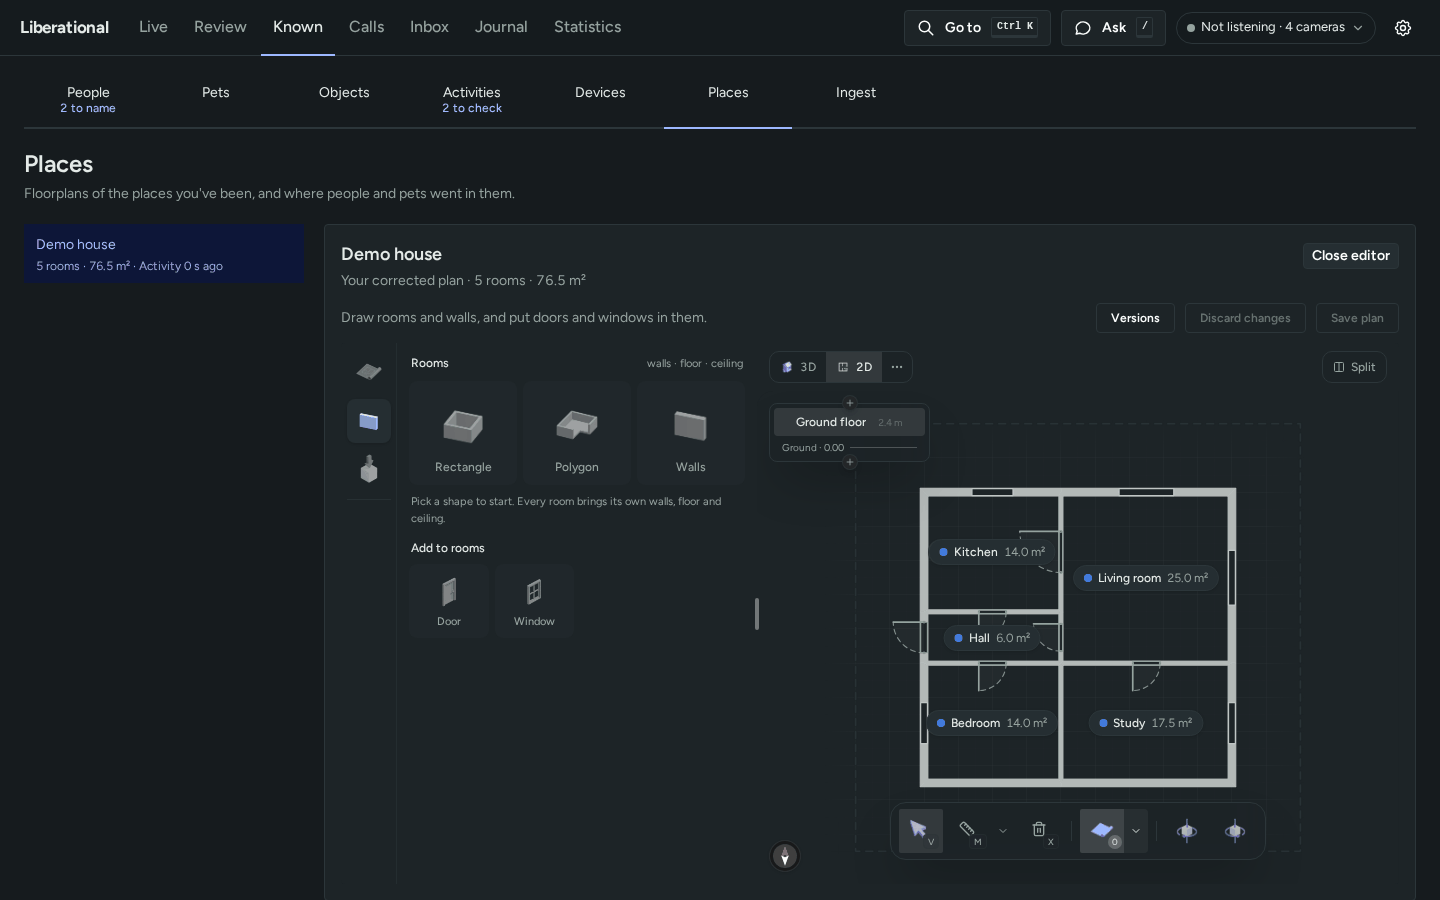
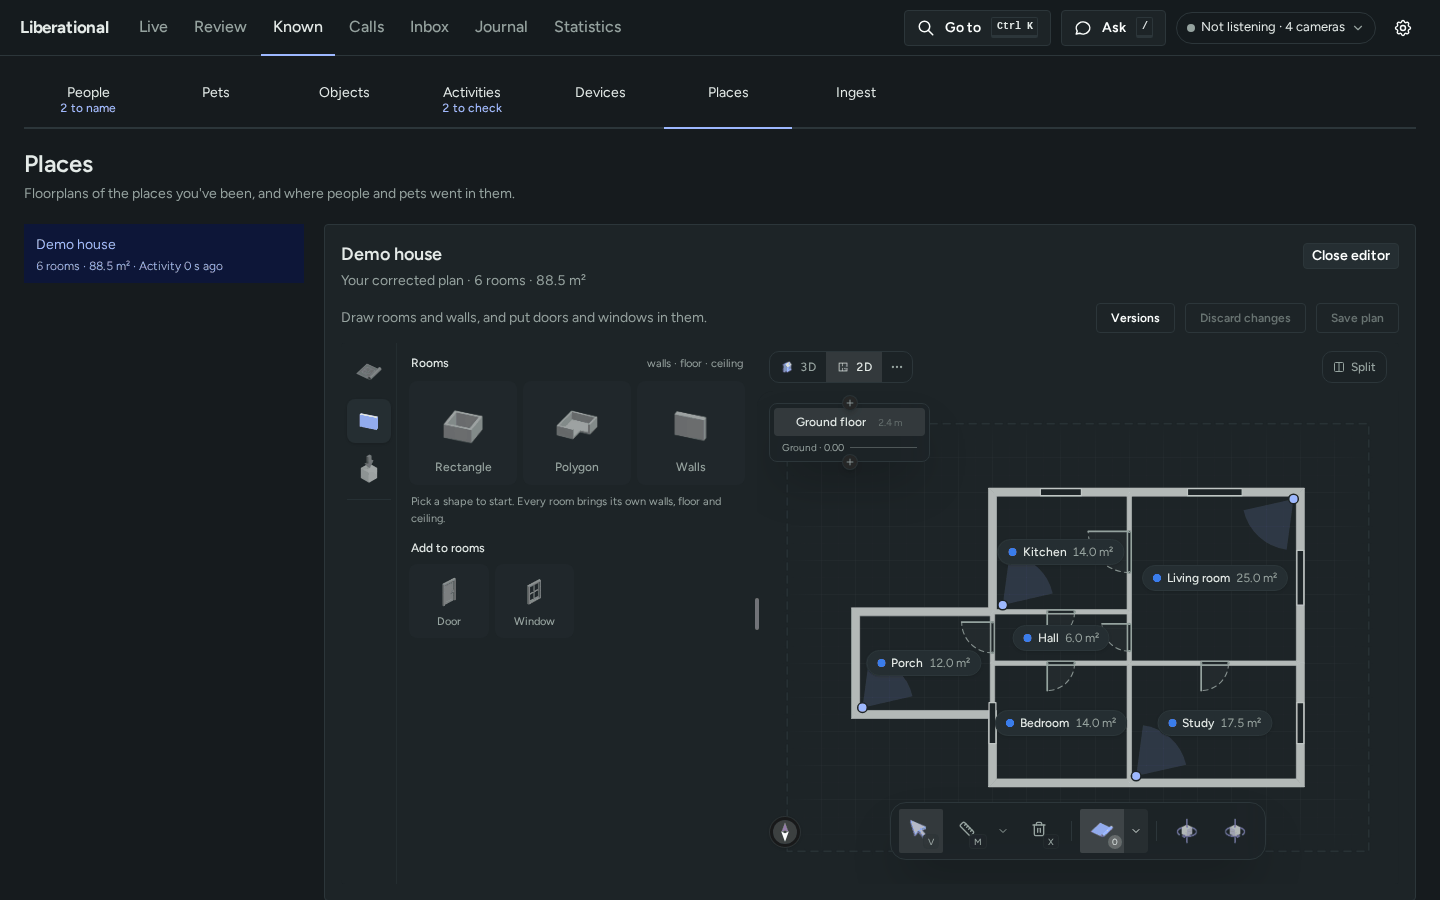
Walk the tutorial again on the demo household that takes teaching, and add the zone editor and All cameras pictures
The tutorial opens on Live with its four cameras, names a face in Who's this?, removes Rex's wrong training image,
finds the plan with its camera marks and paths, looks at one camera in 3D, and restarts the demo to see it reset.
Every step was done on the demo and reads as its screens do.

ZONES.md gets the zone editor with a zone drawn, PLACES.md the All cameras scene, and every picture is taken again:
the demo house has a porch and camera spots now.

Changed region(s): [[0.5938, 0.5289, 0.9062, 0.9022], [0.5312, 0.9022, 0.5625, 0.9644], [0.25, 0.4667, 0.2812, 0.4978]]

diff --git a/docs/TUTORIAL.md b/docs/TUTORIAL.md
@@ -1,12 +1,13 @@
 # A first look at the pack
 
-In this tutorial we open the dashboard on a made-up household (Alice, Dana, Sam, and Rex the dog) and read one day
-of their life in the Journal: the day's page, one hour, and that hour's events. Then we meet the people and the pet
-the pack knows, correct one mistake in what it learned about Rex, and find the floorplan of their house. It takes
-about ten minutes.
+In this tutorial we open the dashboard on a made-up household (Alice, Dana, Sam, and Rex the dog) and see their
+home as its cameras do. We read one day of their life in the Journal: the day's page, one hour, and that hour's
+events. Then we teach the pack twice, by naming a face it wasn't sure of and by taking out a picture it learned about
+Rex by mistake, and find the floorplan of their house. It takes about fifteen minutes.
 
-Everyone here is invented. The demo keeps its data in a temporary directory of its own and never reads or writes
-`data/`, so nothing we do can touch a real recording.
+Everyone here is invented, and so is what the cameras show: the rooms, the people, and the dog are drawings the demo
+makes when it starts. The demo keeps its data in a temporary directory of its own and never reads or writes `data/`,
+so nothing we do can touch a real recording.
 
 ## Before we start
 
@@ -20,8 +21,8 @@ Everyone here is invented. The demo keeps its data in a temporary directory of i
 mise run demo
 ```
 
-The terminal fills with log lines, and among them the command prints two lines like these (the date is
-yesterday's, and the directory has a name of its own each time):
+The demo draws its household first, which takes a minute or two. The terminal fills with log lines, and then the
+command prints two lines like these (the date is yesterday's, and the directory has a name of its own each time):
 
 ```text
 pack-demo: seeded the demo household, with a journal and a transcript for 2026-11-08
@@ -32,15 +33,19 @@ Leave the command running, and open <http://localhost:8780/> in a browser. The t
 runs: we can ignore it. If the command says port 8780 is taken, it names the port it took, and the address line
 has it: open that address.
 
-The dashboard opens on Live. Notice the status at the top right: "Not listening · cameras off". That is right: this
-household has no microphone and no camera, only what was written down about its day.
+The dashboard opens on Live. This is the home as it is now:
 
-Live also shows a "Getting started" list, with steps such as picking a camera and recording a voice. Those are for
-a pack of our own. Leave them alone here.
+- Four cameras: front-room, kitchen, porch, and study.
+- **Here now**, under the cameras: Alice in the kitchen, and Sam, Dana, and Rex in the living room.
+- **Conversation**, on the right: what was said, with who said it.
+- **What's happening**: the last few things the cameras saw.
+
+![Live on the demo household: four cameras, the conversation, what's happening, and who is here now](images/demo-live.png)
+
+Notice the status at the top right: "Not listening · 4 cameras". The demo plays a day that was prepared for it, so
+nothing is being listened to.
 
 If the command stops with `no broker at ...`, the install isn't finished: run `mise run continuum-release`.
-
-One more thing to leave alone: Ask, at the top. The demo runs no models, so a question ends in "Failed".
 
 ## Step 2: find yesterday in the Journal
 
@@ -64,8 +69,8 @@ wrote about it. On the right is the day's page:
 
 ![The Journal with yesterday picked: the hours from 07:00 in one column, and the day's page beside them](images/demo-journal-day.png)
 
-Notice the dot beside `12 h`: it marks a day whose page is written. The other days have no dot and no hours,
-because nothing happened in this household before yesterday.
+Notice the dot beside `12 h`: it marks a day whose page is written. The other days have no dot and no hours: the
+demo's journal holds one day.
 
 ## Step 3: open an hour and its events
 
@@ -77,9 +82,9 @@ because nothing happened in this household before yesterday.
    ![The Journal with 18:00 picked: its four events in a new column, and the hour's entry on the right](images/demo-journal-hour.png)
 
    Under the entry is **Evidence**, which reads "Nothing cited." In a pack of our own, this is where the recordings
-   an entry came from are listed. The demo has no recordings.
+   an entry came from are listed. The demo's journal cites none.
 
-   The pane also has a link, "Where, on the plan". Leave it for now: we find the plan in Step 6.
+   The pane also has a link, "Where, on the plan". Leave it for now: we find the plan in Step 7.
 
 2. Click the event at **18:31**. The pane shows that one moment: Dana arrived and said hello to Rex in the hall.
 
@@ -94,74 +99,99 @@ We have gone from a month down to one moment of a day. Every level of the Journa
 
 Click **Known** in the row of tabs.
 
-Known has a tab for each kind of thing the pack knows by name: People, Pets, Objects, Activities, Devices, and
-Places. It opens on People, which lists Alice, Dana, and Sam. Beside the list, "Who's this?" says nobody is waiting
-for a name.
+Known has a tab for each kind of thing the pack knows by name: People, Pets, Objects, Activities, Devices, Places,
+and Ingest. It opens on People, which lists Alice, Dana, and Sam. Beside the list is "Who's this?", with two faces
+waiting for a name. We come back to those in the next step.
 
 Click **Dana**. Her card opens. A card is where everything the pack knows about one person is kept and corrected.
-Notice "Voice known" at the top: the pack can tell Dana's voice from the others'. Further down, the card says it
-doesn't know her voice yet for a voice clone, which is a different thing: a voice to speak with.
+Notice "Voice known" and "Face known" at the top: the pack can tell Dana's voice and face from the others'. Under
+"Recent voice" are the last things she said. Further down, the card says it doesn't know her voice yet for a voice
+clone, which is a different thing: a voice to speak with.
 
 ![Known, People, with Dana's card open beside the list of Alice, Dana, and Sam](images/demo-people-card.png)
 
-## Step 5: correct what the pack learned about Rex
+## Step 5: say who a face is
 
-1. Click the **Pets** tab, then **Rex**. His card opens. It names a camera, demo-cam, and videos that can't be shown:
-   the demo's records name a made-up camera, and there is no video behind them.
-2. Find **Training images** on the card, and click **Show**.
+The pack saw two faces it wasn't sure of. We tell it who one of them is.
+
+1. Above the list of people, click **2 faces need a name**. "Who's this?" comes back, with its two cards: "Maybe
+   Alice 76%" and "Maybe Dana 67%". The number says how sure the guess is.
+
+   ![Who's this? beside the list of people, with two faces waiting: maybe Alice, and maybe Dana](images/demo-whos-this.png)
+
+2. Click the **Maybe Alice** card. It opens two buttons, **Alice** and **Not Alice**, and says "3 of 3 pictures
+   selected": the card holds three pictures of the same face.
+3. The guess is right, so click **Alice**.
+
+The card leaves the list, and a message says "Unnamed face 1 tagged as Alice. Liberational will know them from now
+on." The count beside "Who's this?" drops to "1 waiting", and the People tab says "1 to name".
+
+That is how the pack learns a face: it guesses, we answer, and it keeps the pictures we confirmed. Leave the second
+card as it is.
+
+## Step 6: correct what the pack learned about Rex
+
+1. Click the **Pets** tab, then **Rex**. His card opens, with short videos and sightings of him from the front-room
+   camera.
+2. Scroll down to **Training images** on the card, and click **Show**.
 
    The card says "7 examples, the least like the rest first: a wrong one is usually near the top." There are seven
-   tiles. Six are coloured and numbered R1 to R6. The first is grey, with a question mark: it is the one that
-   doesn't belong. (The tiles are drawings. The demo holds no picture of anyone.)
+   tiles. The first is marked "Unlike the rest", and the line under it reads "0% alike": it is the one that doesn't
+   belong. The other six read "86% alike".
 
-3. Tick the box on the grey tile, and click **Remove 1 selected**.
+3. Tick the box on the first tile, and click **Remove 1 selected**.
 
-   ![Rex's training images with the grey tile ticked, and the Remove 1 selected button above the tiles](images/demo-pet-remove-selected.png)
+   ![Rex's training images with the first tile ticked, and the Remove 1 selected button above the tiles](images/demo-pet-remove-selected.png)
 
 4. The dashboard asks "Remove 1 training image from Rex?" Click **Remove**.
 
-The card now says "6 examples", and the grey tile is gone. Under Recognition, the card says Rex is recognized by
-appearance, checked on the six that are left.
+The card now says "6 examples", and the tile is gone. Under Recognition, the card says Rex is recognized by
+appearance, checked on the six that are left: "6 right, 0 wrong, 0 unsure".
 
 That is how we correct the pack. It recognizes Rex by matching what it sees against these pictures, so we took out
 the one that would have misled it.
 
-## Step 6: find the floorplan
+## Step 7: find the floorplan
 
 Click the **Places** tab.
 
-The list on the left has one place: Demo house, "5 rooms · 76.5 m² · Nothing seen yet". Beside it is the plan of
-the house, with its five rooms: Kitchen, Hall, Bedroom, Living room, and Study. Beside the place's name, at the top
-right, the page calls it a "Machine-made plan".
+The list on the left has one place: Demo house, "6 rooms · 88.5 m²". Beside it is the plan of the house, with its
+six rooms: Kitchen, Hall, Bedroom, Living room, Study, and Porch.
 
-![Known, Places: Demo house in the list, and its plan with five rooms](images/demo-places-plan.png)
+![Known, Places: Demo house in the list, and its plan of six rooms with coloured paths and a mark for each camera](images/demo-places-plan.png)
 
-Notice "Nothing seen yet". In a pack with cameras, the paths that people and pets took are drawn on this plan. This
-household has no cameras, so nothing is drawn on its plan. For the same reason the page says the place has no map
-yet, and how to start one: that is for a pack with cameras.
+Notice two things drawn on the plan:
 
-## Step 7: stop the demo, and start it again
+- A blue dot with a fan, in four of the rooms: where a camera is, and which way it looks.
+- Coloured lines between the rooms: the paths Alice, Dana, Sam, and Rex took. The names under the plan say whose
+  colour is whose.
+
+Now switch the view from **Plan** to **3D view**, at the top right of the plan. The front-room camera's view opens as a
+cloud of points: the room, the sofa, and the people and the dog in it, with depth. Press **See it from outside** to step
+back from the camera, then switch back to **Plan**.
+
+## Step 8: stop the demo, and start it again
 
 1. In the terminal, press Ctrl-C. The dashboard and the demo's broker stop.
-2. Run it again:
+2. Run it again, and wait for the address line as before:
 
    ```sh
    mise run demo
    ```
 
-3. Reload the browser page (at the new address, if the demo printed a different port), open **Known**, **Pets**,
-   **Rex**, and view the training images.
+3. Reload the browser page (at the new address, if the demo printed a different port), and open **Known**.
 
-Rex has seven examples again, the grey tile among them. Each run makes a new directory and a fresh household, so we
-can repeat any step here as often as we like.
+"Who's this?" has two faces waiting again, and Rex has seven training images, the first marked "Unlike the rest".
+Every start makes a fresh household and drops what we changed, so we can repeat any step here as often as we like.
 
 Press Ctrl-C once more to finish.
 
 ## What we did
 
-We opened the pack's dashboard with nothing at stake, read a day in the Journal from its page down to one event,
-opened a person's card, removed a wrong training image from a pet, and found a place's floorplan. A pack of our own
-has the same pages, filled from its cameras and microphones.
+We opened the pack's dashboard with nothing at stake, saw a home through its cameras, read a day in the Journal from
+its page down to one event, opened a person's card, named a face, removed a wrong training image from a pet, and
+found a place's floorplan and one camera's view in 3D. A pack of our own has the same pages, filled from its cameras
+and microphones.
 
 ## Next steps
 

diff --git a/README.md b/README.md
@@ -48,14 +48,14 @@ kind starts to count once it has enough answers.
 **Places** has a plan of each place. You draw it in the plan editor and give each camera its spot, and people and
 pets are drawn on the plan where the cameras saw them. The 3D view shows what one camera sees as a cloud of points.
 
-<img alt="Known, Places: the demo house's plan of five rooms, with coloured paths where people and Rex walked between them" src="docs/images/demo-places-plan.png">
+<img alt="Known, Places: the demo house's plan of six rooms, with a mark for each camera and coloured paths where people and Rex walked between them" src="docs/images/demo-places-plan.png">
 
 <picture>
   <source media="(prefers-color-scheme: dark)" srcset="docs/images/demo-plan-editor-dark.png">
   <img alt="The plan editor on the demo house: tools for rooms, walls, doors, and windows beside the plan, with Versions, Discard changes, and Save plan above it" src="docs/images/demo-plan-editor.png">
 </picture>
 
-<img alt="The 3D view of the front-room camera: a point cloud of the room with two people, a dog, a sofa, and a plant, marked as approximate in size" src="docs/images/demo-3d-view.png">
+<img alt="The 3D view of the front-room camera: a point cloud of the room with two people, a dog, a sofa, and a plant, seen close up and marked as approximate in size" src="docs/images/demo-3d-view.png">
 
 **Statistics** charts who was around and when, conversations, and activity.
 
@@ -109,7 +109,7 @@ pack](docs/TUTORIAL.md).
 
 [docs/README.md](docs/README.md) is the map of every document. By what you came to do:
 
-- **Learn it:** [a first look at the pack](docs/TUTORIAL.md), a ten-minute lesson on the demo household.
+- **Learn it:** [a first look at the pack](docs/TUTORIAL.md), a fifteen-minute lesson on the demo household.
 - **Get a task done:** [add a camera](docs/CAMERAS.md), [name people and pets](docs/NAMING.md),
   [draw a place's plan](docs/PLAN-EDITOR.md), [run and restart it](docs/RUNNING.md),
   [upgrade](MIGRATING.md), and the other [how-to guides](docs/README.md#how-to-guides-get-a-task-done).

diff --git a/docs/PLACES.md b/docs/PLACES.md
@@ -78,6 +78,8 @@ A cloud is made again when the camera's view changes.
    ([Give a camera a spot on the plan](#give-a-camera-a-spot-on-the-plan)).
 2. In the 3D view, switch from **One camera** to **All cameras**.
 
+![All cameras on the demo household: four cameras' clouds standing on the plan's outline, each where its camera is](images/demo-3d-all-cameras.png)
+
 Each camera's cloud is drawn where its camera stands on your plan. The clouds are separate layers and are never
 blended: each camera shows only what it sees, so expect gaps and seams. Under the view is a row for each camera:
 

diff --git a/docs/ZONES.md b/docs/ZONES.md
@@ -19,6 +19,8 @@ visits are found, and [ANSWERS.md](ANSWERS.md#deterministic-answers) how they ar
 
 The picture here is never mirrored, even when **Mirror** is on: a zone belongs to the camera's own frame.
 
+![The zone editor on the demo household's front-room camera, with one zone outlined on the rug and named Rug](images/demo-zones.png)
+
 ## Draw a zone
 
 1. Press **Add a zone**.
